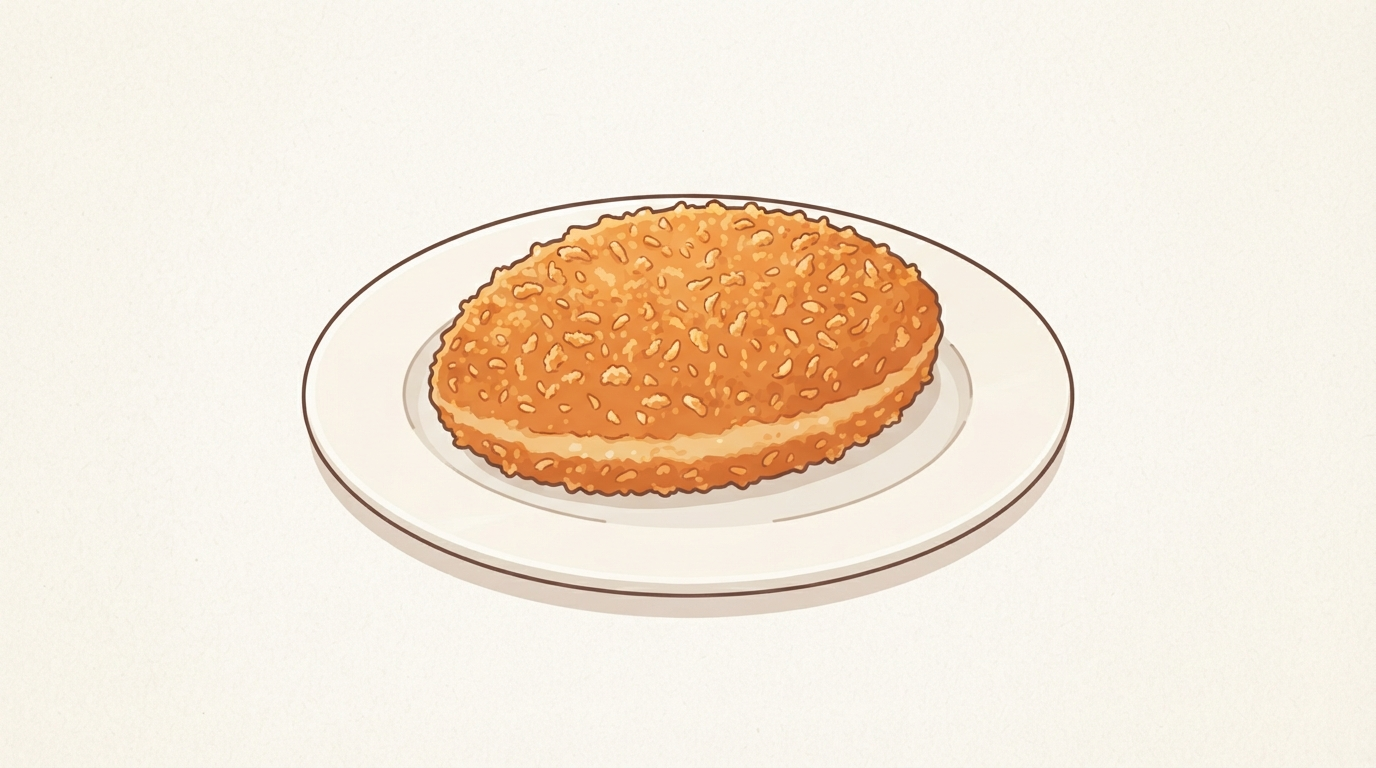
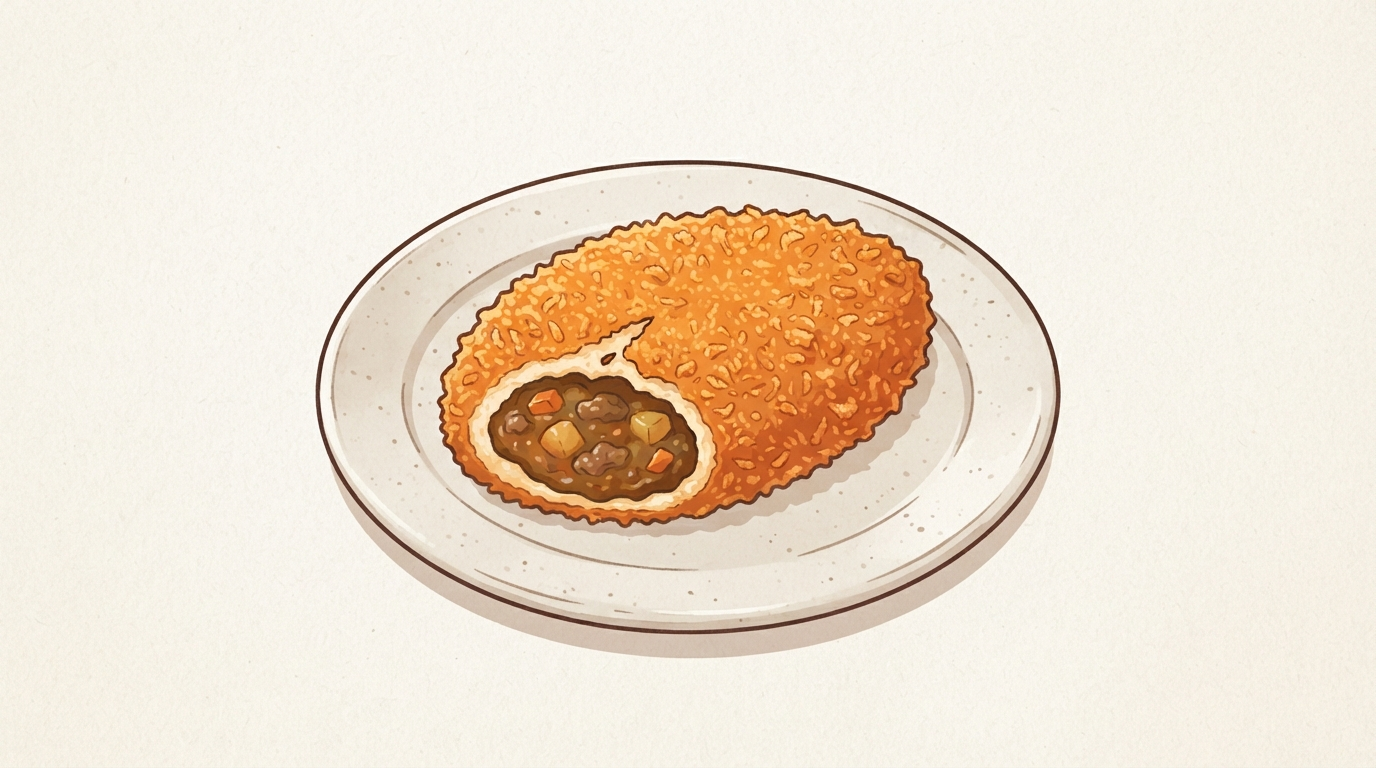
Update food artwork and image mapping

Changed region(s): [[0.2188, 0.2188, 0.7812, 0.875], [0.4375, 0.1875, 0.5625, 0.2188]]

diff --git a/pokedex/data/foods.ts b/pokedex/data/foods.ts
@@ -20,8 +20,12 @@ export type Food = {
   image?: string
 }
 
-function imageForFood(id: string) {
-  return imageModules[`../assets/images/${id}_image.png`]
+function imageSlugForName(name: string) {
+  return name.toLowerCase().replace(/ /g, '-')
+}
+
+function imageForFood(name: string) {
+  return imageModules[`../assets/images/${imageSlugForName(name)}_image.png`]
 }
 
 const essentialIds = new Set([
@@ -70,5 +74,5 @@ export const foods: Food[] = foodData.map((food) => ({
   category: categoryById[food.id] ?? 'Sweets',
   essential: essentialIds.has(food.id),
   foodTypes: foodTypesById[food.id] ?? ['snack'],
-  image: imageForFood(food.id)
+  image: imageForFood(food.name)
 }))

diff --git a/pokedex/tests/useFoodPokedex.test.ts b/pokedex/tests/useFoodPokedex.test.ts
@@ -29,6 +29,7 @@ describe('useFoodPokedex', () => {
     expect(state.filteredFoods.value).toHaveLength(54)
     expect(foods.filter((food) => food.essential)).toHaveLength(14)
     expect(state.categories).toEqual(['All', 'Noodles', 'Rice & Bowls', 'Meat', 'Seafood', 'Dumplings & Buns', 'Sweets', 'Drinks'])
+    expect(foods.every((food) => food.image)).toBe(true)
 
     state.searchTerm.value = '寿司'
     await nextTick()

diff --git a/pokedex/scripts/food_gen.py b/pokedex/scripts/food_gen.py
@@ -1,3 +1,4 @@
+import json
 import os
 import time
 from pathlib import Path
@@ -7,61 +8,10 @@ import base64
 
 API_KEY = os.environ["API_KEY"]
 ASSETS_DIR = Path(__file__).resolve().parent.parent / "assets" / "images"
+DATA_DIR = Path(__file__).resolve().parent.parent / "data"
 
 client = genai.Client(api_key=API_KEY)
 
-foods = [
-    'ramen',
-    'sushi',
-    'okonomiyaki',
-    'onigiri',
-    'takoyaki',
-    'matcha',
-    'soba',
-    'udon',
-    'tsukemen',
-    'hiyashi-chuka',
-    'tempura',
-    'tonkatsu',
-    'karaage',
-    'yakitori',
-    'chicken-nanban',
-    'kushikatsu',
-    'sukiyaki',
-    'shabu-shabu',
-    'gyutan',
-    'motsunabe',
-    'katsudon',
-    'gyudon',
-    'oyakodon',
-    'tendon',
-    'kaisendon',
-    'omurice',
-    'ochazuke',
-    'takikomi-gohan',
-    'curry-rice',
-    'katsu-curry',
-    'curry-pan',
-    'gyoza',
-    'chahan',
-    'nikuman',
-    'shumai',
-    'edamame',
-    'agedashi-tofu',
-    'nikujaga',
-    'taiyaki',
-    'dango',
-    'kakigori',
-    'mochi',
-    'daifuku',
-    'ichigo-daifuku',
-    'warabi-mochi',
-    'dorayaki',
-    'castella',
-    'anmitsu',
-    'melon-pan',
-    'senbei',
-]
 
 master_prompt = """Create a polished, friendly illustration for a Japanese food encyclopedia card.
 Use a cute minimalist anime-inspired editorial style with clean, moderately thick outlines,
@@ -71,6 +21,12 @@ comfortable empty margins so it remains legible when cropped responsively. Use a
 plate, bowl, skewer, tray, or serving vessel when that is part of the dish, but do not add
 extraneous ingredients or multiple dishes. Keep the camera angle and visual scale consistent
 across the series. No people, hands, logos, labels, captions, Japanese characters, or other text."""
+
+def get_food_names() -> list[str]:
+    with open(DATA_DIR / "foods.json", encoding="utf-8") as fo:
+        data = json.load(fo)
+    names = [element['name'].lower().replace(" ", "-") for element in data]
+    return names
 
 def generate_image(food):
     output_path = ASSETS_DIR / f"{food}_image.png"
@@ -88,6 +44,7 @@ def generate_image(food):
     time.sleep(1) # hard rate limit on api and expensive call!
 
 def main():
+    foods = get_food_names()
     for food in foods:
         generate_image(food)
 
